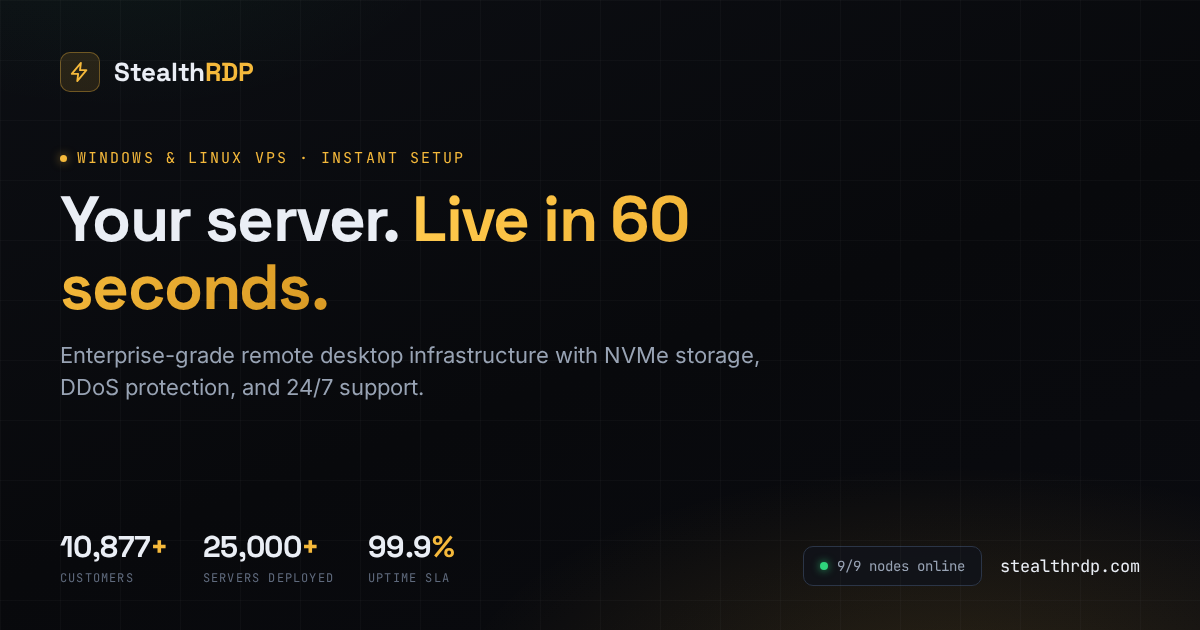
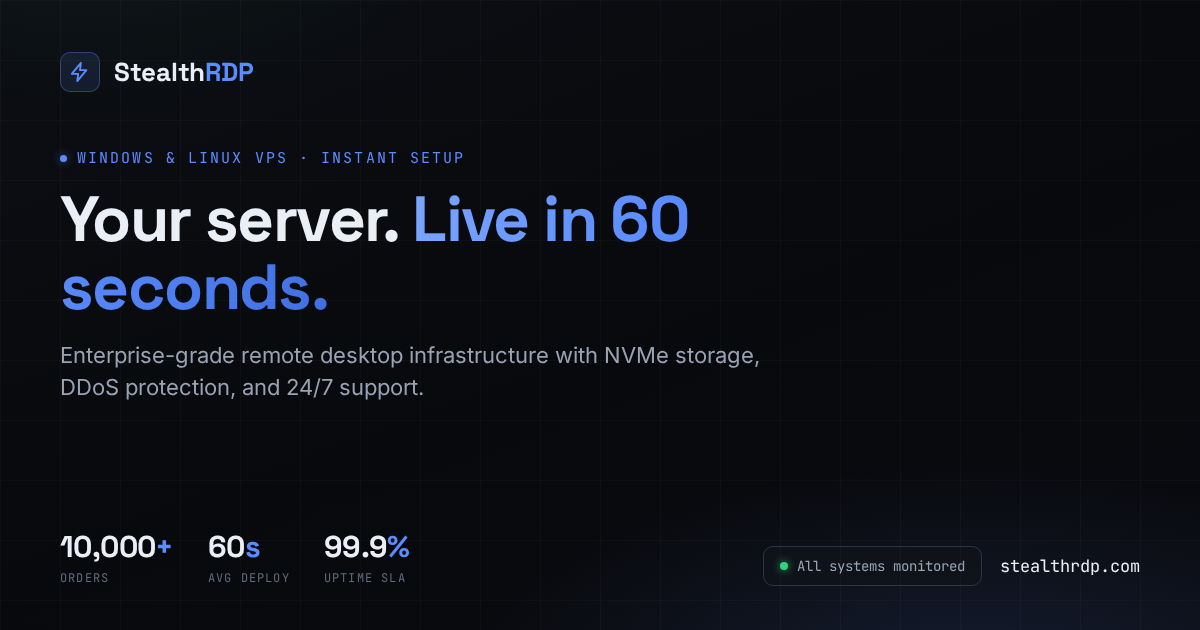
feat(preview): regenerate OG cover with 10,000+ orders proof

diff --git a/data/og-cover.src.html b/data/og-cover.src.html
@@ -64,7 +64,7 @@
       <div class="stat"><div class="num">99.9<span class="plus">%</span></div><div class="lbl">Uptime SLA</div></div>
     </div>
     <div style="display:flex;align-items:center;gap:18px">
-      <span class="console-chip"><span class="dot"></span>9/9 nodes online</span>
+      <span class="console-chip"><span class="dot"></span>All systems monitored</span>
       <span class="url"><b>stealthrdp.com</b></span>
     </div>
   </div>

diff --git a/scripts/render-og-cover.py b/scripts/render-og-cover.py
@@ -1,0 +1,23 @@
+"""Render data/og-cover.src.html -> assets/og-cover.png at 1200x630."""
+import asyncio
+from pathlib import Path
+
+from playwright.async_api import async_playwright
+
+ROOT = Path("/opt/data/stealthrdp-homepage-edit")
+SRC = ROOT / "data" / "og-cover.src.html"
+OUT = ROOT / "assets" / "og-cover.png"
+
+
+async def main():
+    async with async_playwright() as p:
+        browser = await p.chromium.launch()
+        page = await browser.new_page(viewport={"width": 1200, "height": 630}, device_scale_factor=1)
+        await page.goto(SRC.as_uri())
+        await page.wait_for_timeout(1200)
+        await page.screenshot(path=str(OUT))
+        await browser.close()
+    print(f"written {OUT} ({OUT.stat().st_size} bytes)")
+
+
+asyncio.run(main())
